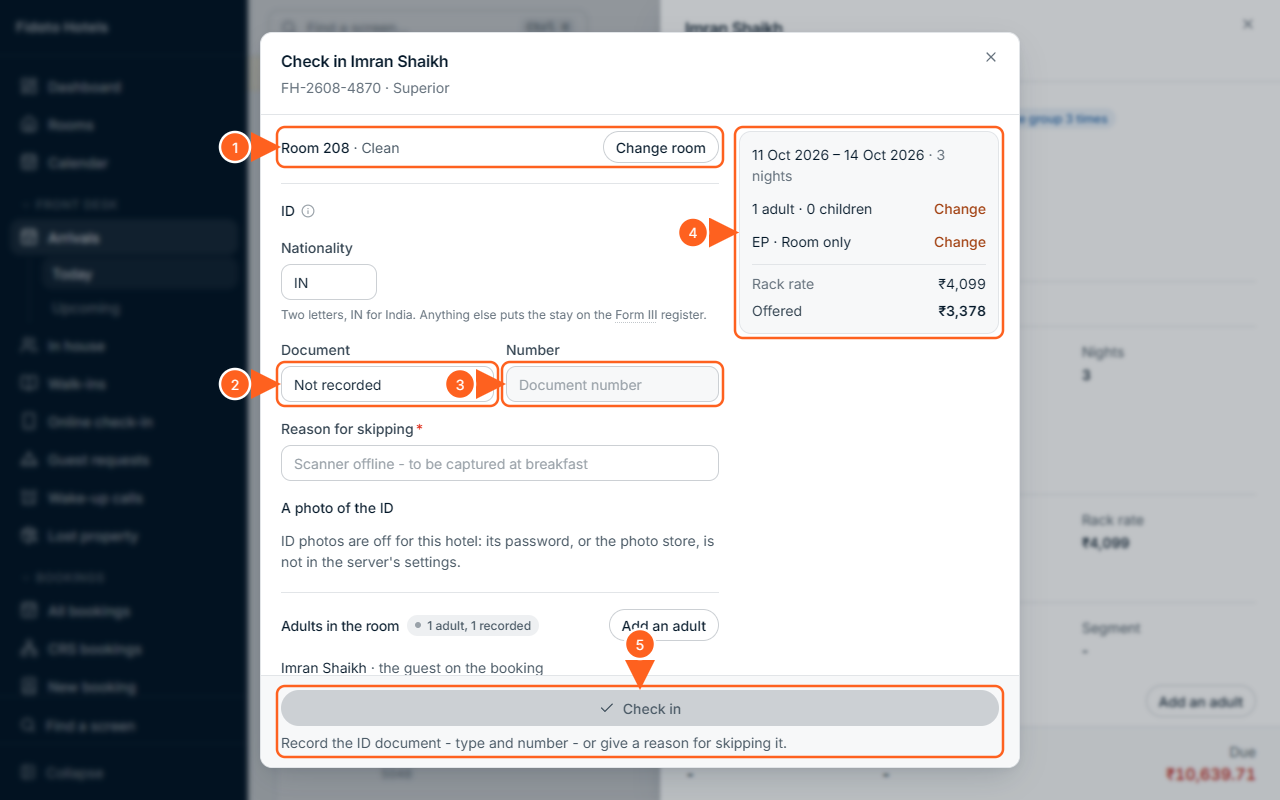
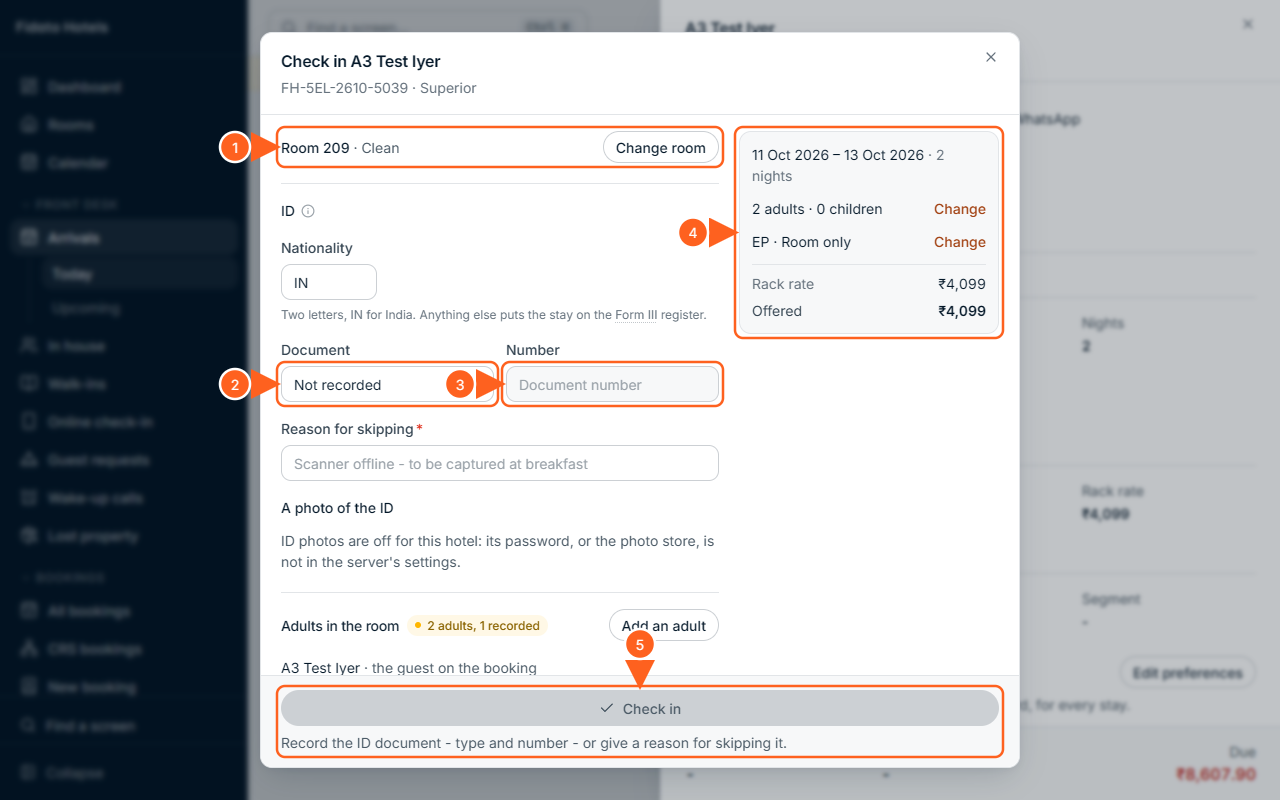
Manual A3: the check-in window and the early arrival taken (A3-02, A3-12)

diff --git a/docs/manual/manual.html b/docs/manual/manual.html
@@ -236,7 +236,7 @@ figure.shot.phone img { max-width: 72mm; }
   <div class="foot">
     The screens in this book are from the test hotel, 5 Elements Akkalkot. Every guest in it is made up.<br>
     Decision numbers such as D27-249 are the owner's decisions; the list is kept in <code style="background:none;color:inherit">docs/briefs/decisions-*.md</code>.<br>
-    477 pictures, 7 still to be taken. Built from the chapters in docs/manual/chapters.
+    479 pictures, 5 still to be taken. Built from the chapters in docs/manual/chapters.
   </div>
 </section>
 
@@ -2234,16 +2234,7 @@ figure.shot.phone img { max-width: 72mm; }
   </figure>
 
   <figure class="shot" id="fig-A3-02">
-    <div class="shot-plan">
-      <p class="shot-id">Screenshot A3-02 · to be taken</p>
-      <dl>
-        <dt>Open</dt><dd><code>/h/5EL/arrivals</code>, a made-up guest due today (“A3 Test …”) whose booking holds a clean room, then <span class="ui">Check in</span></dd>
-        <dt>Sign in as</dt><dd>Reception</dd>
-        <dt>Window</dt><dd>1280 × 800, desk; nothing typed, the window not saved</dd>
-        <dt>Arrows</dt><dd>1 → the room line (“Room … · Clean”) and Change room; 2 → the Document list; 3 → the Number box; 4 → the stay box on the right (dates, adults and children, meal plan, Rack rate, Offered); 5 → Check in at the foot, with the line under it</dd>
-        <dt>File</dt><dd><code>img/A3-02.png</code></dd>
-      </dl>
-    </div>
+    <img src="img/A3-02.png" alt="The Check in window for A3 Test Iyer: room 209, Clean, with Change room; the ID Document and Number; the stay on the right with its dates, party, meal plan and rates; Check in grey at the foot with the line that says what is missing">
     <figcaption><b>Figure A3-02.</b> The Check in window: the room and ID on the left, the stay on the right.</figcaption>
     <ol class="callouts"><li>The room, and Change room</li><li>Document</li><li>Number</li><li>The stay: its dates, the party, the meal plan and the rate</li><li>Check in, and the line under it that says what is missing</li></ol>
   </figure>
@@ -2552,16 +2543,7 @@ figure.shot.phone img { max-width: 72mm; }
   </ol>
 
   <figure class="shot" id="fig-A3-12">
-    <div class="shot-plan">
-      <p class="shot-id">Screenshot A3-12 · to be taken</p>
-      <dl>
-        <dt>Open</dt><dd>A made-up guest due today (“A3 Test …”), their <span class="ui">Check in</span> window, taken before the hotel's check-in time on the property's clock (or with <span class="ui">Rooms ready from</span> set later than now, put back after)</dd>
-        <dt>Sign in as</dt><dd>General Manager (so the Waive tick shows where there is a charge)</dd>
-        <dt>Window</dt><dd>1280 × 800, desk; scrolled to the yellow box; the window not saved</dd>
-        <dt>Arrows</dt><dd>1 → the yellow box (“Rooms are ready from … This property does not charge for an early arrival.”); 2 → Why the room is being given early; 3 → the line under the grey Check in</dd>
-        <dt>File</dt><dd><code>img/A3-12.png</code></dd>
-      </dl>
-    </div>
+    <img src="img/A3-12.png" alt="Check in before the hotel's check-in time: the yellow box Rooms are ready from, with Why the room is being given early, and Check in grey below">
     <figcaption><b>Figure A3-12.</b> Arriving before the hotel's check-in time.</figcaption>
     <ol class="callouts"><li>Rooms are ready from, and what an early arrival costs</li><li>Why the room is being given early: required</li><li>Check in waits for the reason</li></ol>
   </figure>

diff --git a/docs/manual/chapters/a3.html b/docs/manual/chapters/a3.html
@@ -35,16 +35,7 @@
   </figure>
 
   <figure class="shot" id="fig-A3-02">
-    <div class="shot-plan">
-      <p class="shot-id">Screenshot A3-02 · to be taken</p>
-      <dl>
-        <dt>Open</dt><dd><code>/h/5EL/arrivals</code>, a made-up guest due today (“A3 Test …”) whose booking holds a clean room, then <span class="ui">Check in</span></dd>
-        <dt>Sign in as</dt><dd>Reception</dd>
-        <dt>Window</dt><dd>1280 × 800, desk; nothing typed, the window not saved</dd>
-        <dt>Arrows</dt><dd>1 → the room line (“Room … · Clean”) and Change room; 2 → the Document list; 3 → the Number box; 4 → the stay box on the right (dates, adults and children, meal plan, Rack rate, Offered); 5 → Check in at the foot, with the line under it</dd>
-        <dt>File</dt><dd><code>img/A3-02.png</code></dd>
-      </dl>
-    </div>
+    <img src="img/A3-02.png" alt="The Check in window for A3 Test Iyer: room 209, Clean, with Change room; the ID Document and Number; the stay on the right with its dates, party, meal plan and rates; Check in grey at the foot with the line that says what is missing">
     <figcaption><b>Figure A3-02.</b> The Check in window: the room and ID on the left, the stay on the right.</figcaption>
     <ol class="callouts"><li>The room, and Change room</li><li>Document</li><li>Number</li><li>The stay: its dates, the party, the meal plan and the rate</li><li>Check in, and the line under it that says what is missing</li></ol>
   </figure>
@@ -353,16 +344,7 @@
   </ol>
 
   <figure class="shot" id="fig-A3-12">
-    <div class="shot-plan">
-      <p class="shot-id">Screenshot A3-12 · to be taken</p>
-      <dl>
-        <dt>Open</dt><dd>A made-up guest due today (“A3 Test …”), their <span class="ui">Check in</span> window, taken before the hotel's check-in time on the property's clock (or with <span class="ui">Rooms ready from</span> set later than now, put back after)</dd>
-        <dt>Sign in as</dt><dd>General Manager (so the Waive tick shows where there is a charge)</dd>
-        <dt>Window</dt><dd>1280 × 800, desk; scrolled to the yellow box; the window not saved</dd>
-        <dt>Arrows</dt><dd>1 → the yellow box (“Rooms are ready from … This property does not charge for an early arrival.”); 2 → Why the room is being given early; 3 → the line under the grey Check in</dd>
-        <dt>File</dt><dd><code>img/A3-12.png</code></dd>
-      </dl>
-    </div>
+    <img src="img/A3-12.png" alt="Check in before the hotel's check-in time: the yellow box Rooms are ready from, with Why the room is being given early, and Check in grey below">
     <figcaption><b>Figure A3-12.</b> Arriving before the hotel's check-in time.</figcaption>
     <ol class="callouts"><li>Rooms are ready from, and what an early arrival costs</li><li>Why the room is being given early: required</li><li>Check in waits for the reason</li></ol>
   </figure>

diff --git a/docs/manual/CHANGELOG.md b/docs/manual/CHANGELOG.md
@@ -3,3 +3,4 @@
 One line per chapter and picture set, in the order they were committed; the decision numbers are the owner's.
 
 - 13 Nov, A2 (D27-396): pictures retaken on the demo of 11 Oct (A2-01 to A2-41; A2-02 tall, so the dates show); A2-42 new: the host's account, the second Figure A2-31 renumbered; the rooming list uses the group the run makes (A2 Test Mehta wedding), the allotment (Demo Travels) and the waitlist are made-up demo data; the file's rows follow the group's own dates.
+- 13 Nov, A3 (D27-396): A3-02 and A3-12 taken (A3 Test Iyer, room 209), the two 'to be taken' boxes are pictures; A3-12 with Rooms ready from put to 20:00 for the picture and back to 14:00 (the clock was past 14:00).
